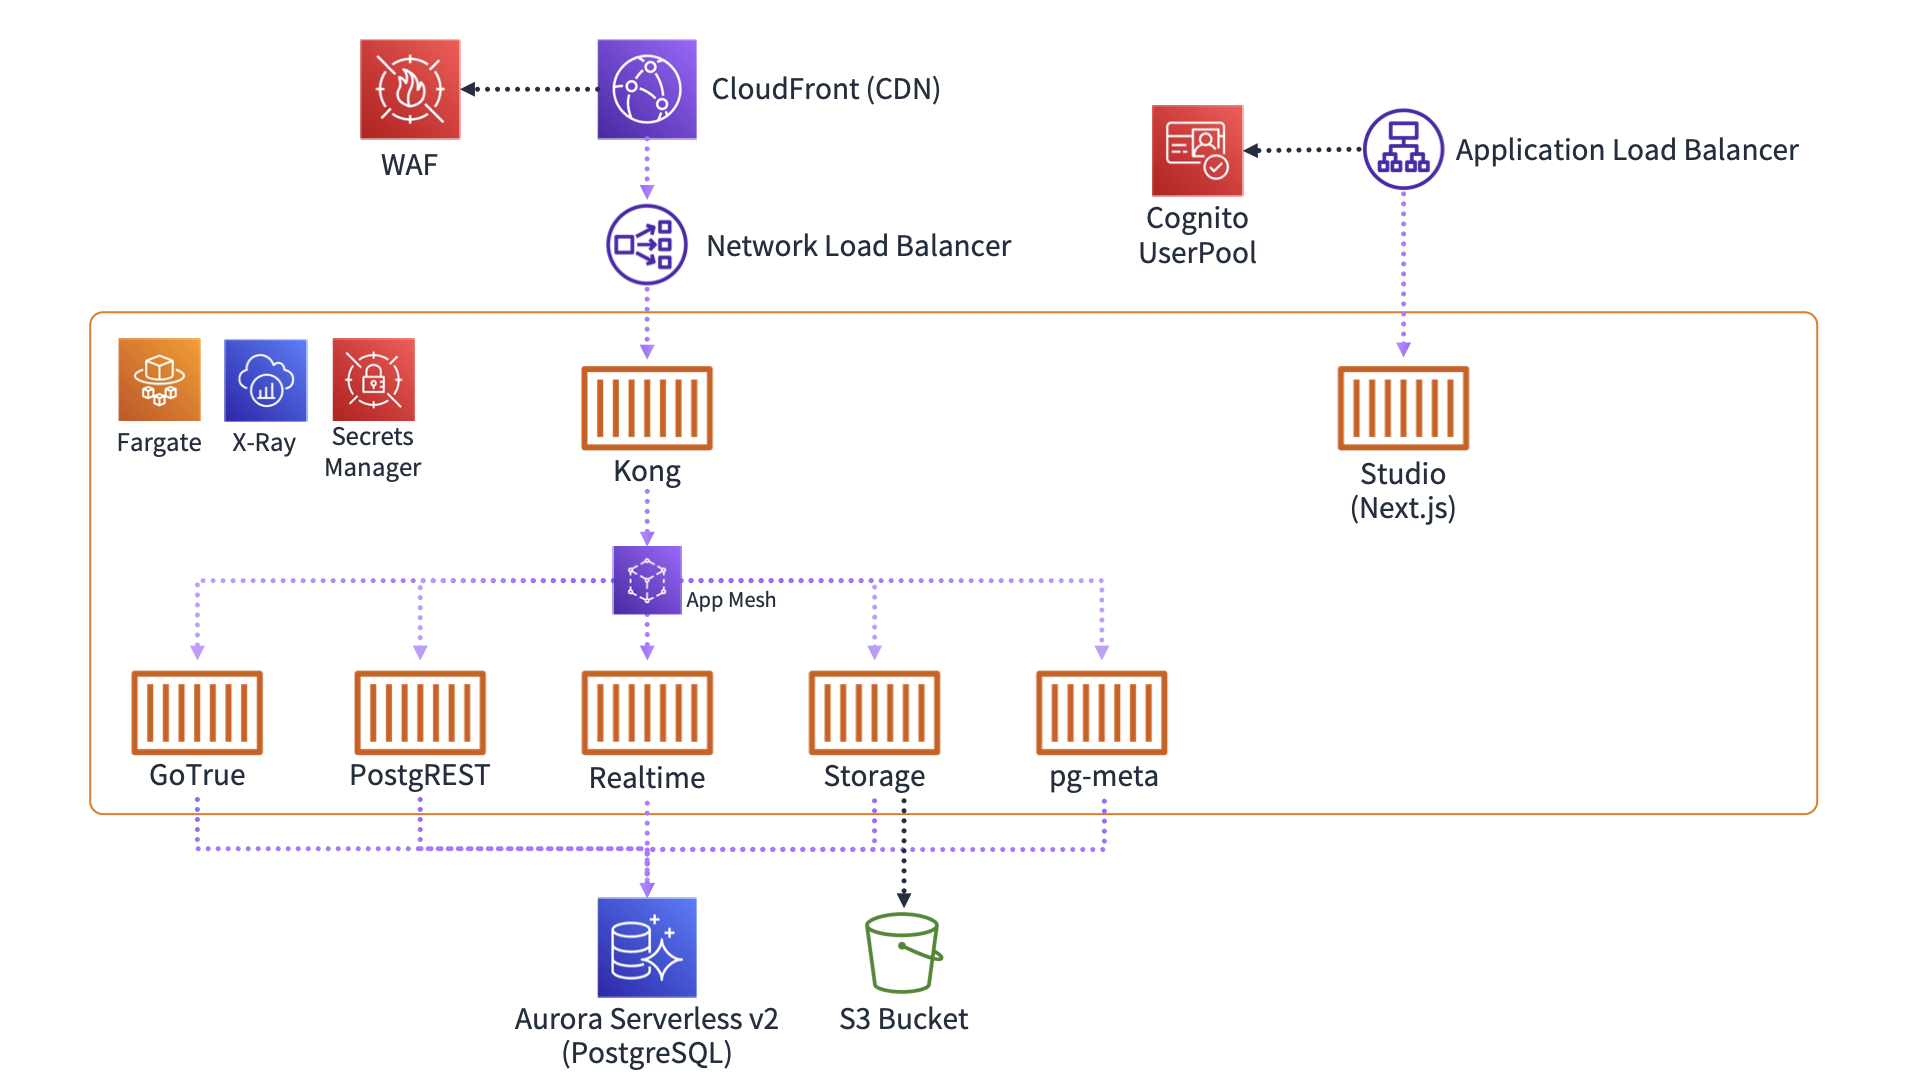
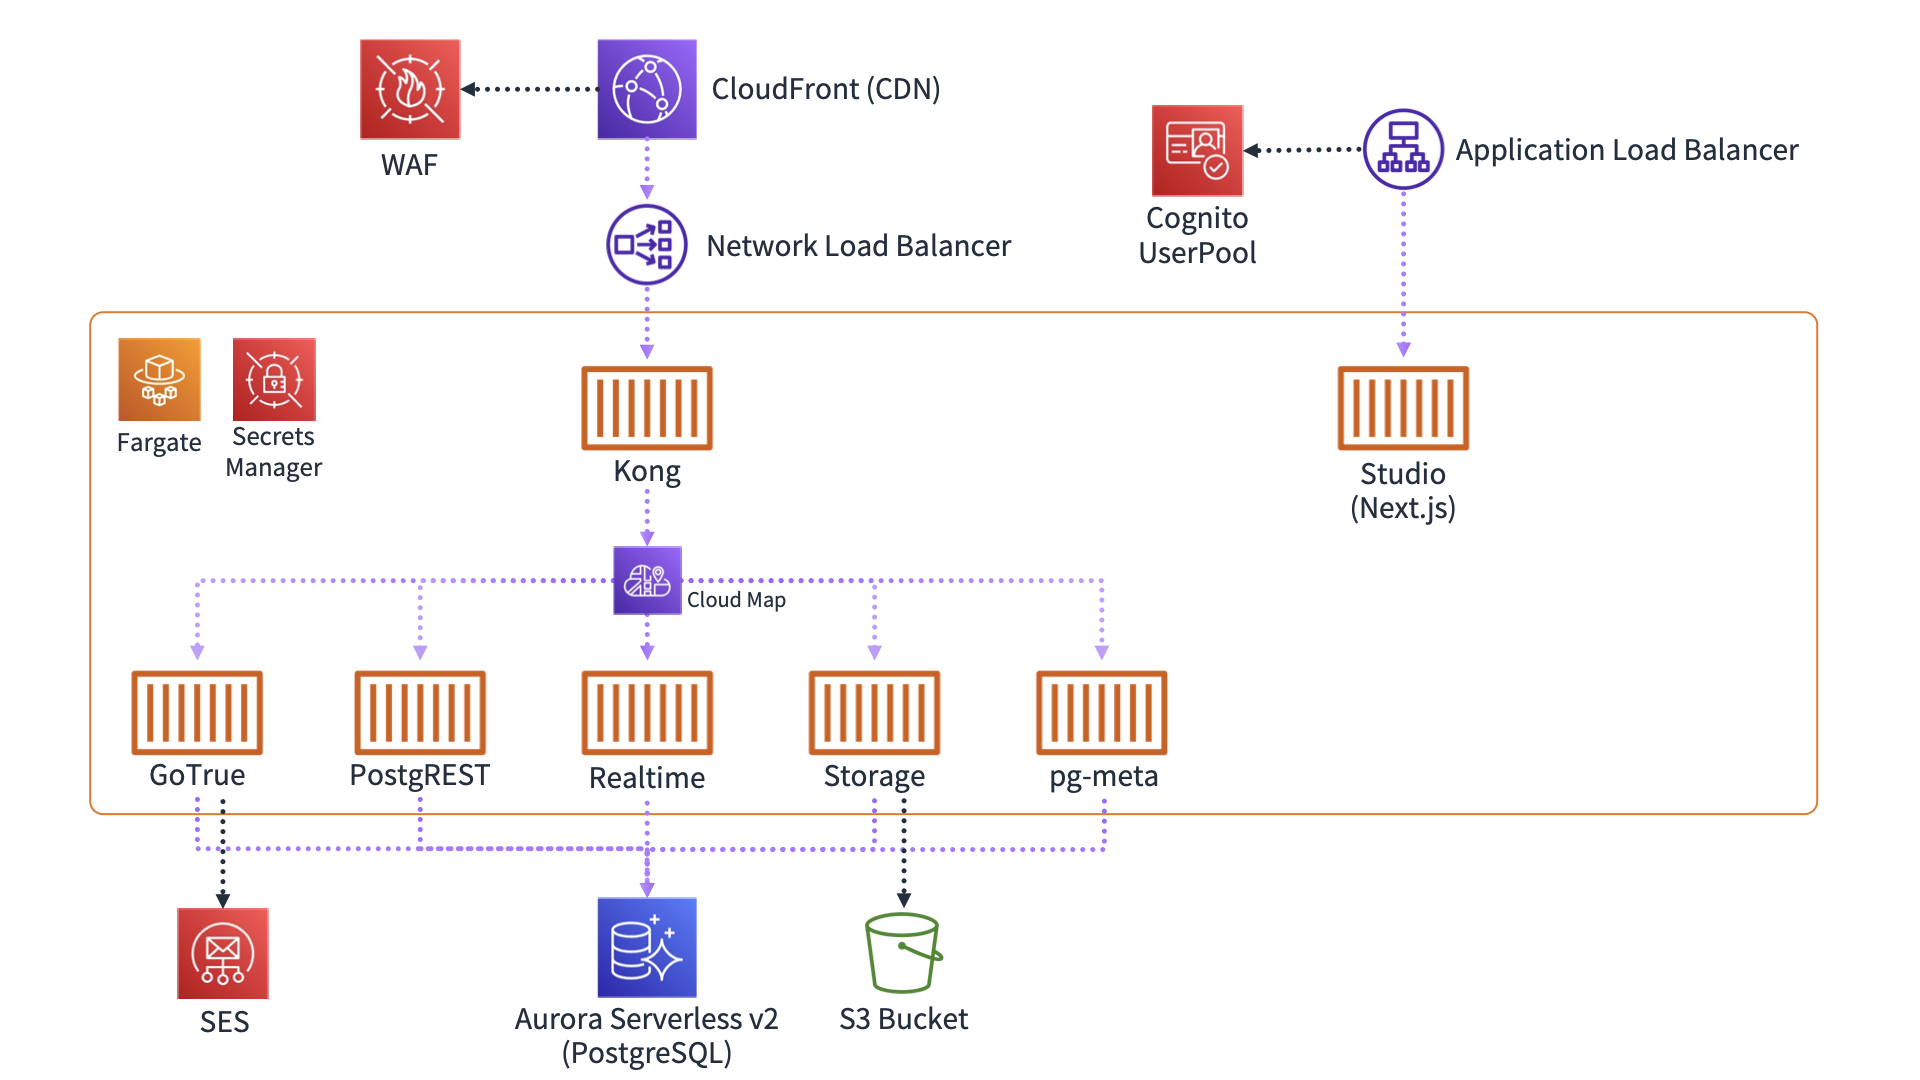
update README

Changed region(s): [[0.0938, 0.3056, 0.2188, 0.4583], [0.0938, 0.825, 0.1562, 0.9472], [0.3125, 0.5194, 0.4062, 0.5806]]

diff --git a/README.md b/README.md
@@ -32,7 +32,6 @@
 - API
   - All containers run on ECS Fargate (Graviton2).
     - Only Storage API run on x86 pratform.
-  - All containers are allocated 1 vCPU/2GB memory.
   - All components are configured with AutoScaling.
     - Only Realtime API does not autoscale
   - GraphQL is not supported, because [pg_graphql](https://github.com/supabase/pg_graphql) is not supported with Amazon RDS/Aurora.
@@ -43,12 +42,25 @@
 - Service Discovery
   - Use [Cloud Map](https://aws.amazon.com/cloud-map/) as internal DNS.
     - Each component is discovered as `***.supabase.local`.
-  - By default, [App Mesh](https://aws.amazon.com/app-mesh/) is used as service mesh.
-    - You can disable App Mesh via CDK.
 - Studio
   - You can use authentication using Cognito UserPool.
     - Need to set certificate ARN.
     - By default, use http without authentication.
+
+#### Fargate Task Size
+
+```json
+{
+  'nano': { cpu: 256, memory: 512 },
+  'micro': { cpu: 256, memory: 1024 },
+  'small': { cpu: 512, memory: 1024 },
+  'medium': { cpu: 1024, memory: 2048 },
+  'large': { cpu: 2048, memory: 4096 },
+  'xlarge': { cpu: 4096, memory: 8192 },
+  '2xlarge': { cpu: 8192, memory: 16384 },
+  '4xlarge': { cpu: 16384, memory: 32768 },
+}
+```
 
 ## Deploy via CDK
 
